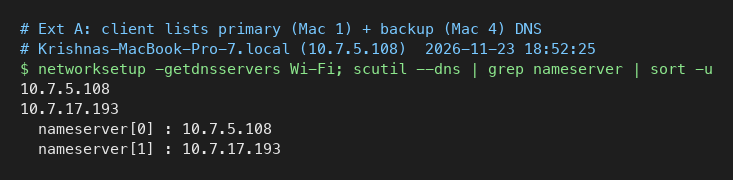
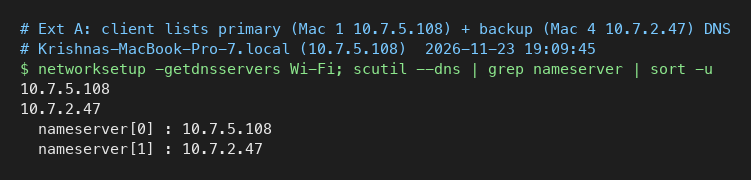
fix: swap Mac 3/Mac 4 IPs; Ext C and backup DNS evidence
Mac 3 = 10.7.17.193 (Backend A), Mac 4 = 10.7.2.47 (Backend B + backup DNS).
Retake resolver evidence with the correct backup.

diff --git a/Evidence/phase2/mac1/README.md b/Evidence/phase2/mac1/README.md
@@ -10,7 +10,7 @@ Each item has a `.png` screenshot and a `.txt` with the raw output (host, IP, ti
 | 04-dnsmasq-running | Task B | dnsmasq process running, answering |
 | 05-dig-app | Task B | `dig app.team1.test` → 10.7.22.206 (authoritative, from 10.7.5.108) |
 | 06-dig-api | Task B | `api.team1.test` → 10.7.22.206 |
-| 07-resolvers | Ext A | client lists primary 10.7.5.108 + backup 10.7.17.193 |
+| 07-resolvers | Ext A | client lists primary 10.7.5.108 + backup 10.7.2.47 |
 | 08-ttl | Ext B | record TTL 30 s (Phase 1 was 0) |
 | 09-forwarding | Task B | non-project names forwarded upstream |
 | 10-https-tls | Task E | HTTPS by name, TLS 1.3, HTTP/2 (ALPN h2), cert verified by team mkcert CA, no `-k` |
@@ -19,9 +19,13 @@ Each item has a `.png` screenshot and a `.txt` with the raw output (host, IP, ti
 | 13-conditional-304 | Task F | `If-None-Match` → 304 from issuing backend, 200 from the other |
 | 14-api-host | Task B/D | api.team1.test served by edge |
 | 15-wrong-dns | Failure demo / Ext A | wrong DNS (8.8.8.8) → no answer, but IP ping to edge works |
+| 16-extC-mac4-isolated | Ext C | direct curl to Backend B :3002 refused (Mac 4 pf ON) |
+| 17-extC-mac3-not-yet-isolated | Ext C | Backend A :3001 still reachable at that moment (Mac 3 pf not on) |
+| 18-extC-edge-still-works | Ext C | A/B still served via edge while isolated |
+| 19-backup-dns | Ext A | backup DNS 10.7.2.47 answers app.team1.test → 10.7.22.206 |
 
-Team IPs: Mac 2 edge 10.7.22.206 · Mac 3 Backend A 10.7.2.47 · Mac 4 Backend B + backup DNS 10.7.17.193.
+Team IPs: Mac 2 edge 10.7.22.206 · Mac 3 Backend A 10.7.17.193 · Mac 4 Backend B + backup DNS 10.7.2.47.
 
-## Still pending (needs other Macs)
-- Mac 4 backup dnsmasq not answering → Ext A failover (stop primary, still resolves).
-- `.pcap` (Task G) + Ext B/E: run `./scripts/mac1.sh phase1 / extB / extE` with the team (needs sudo).
+## Still pending
+- Mac 3 pf rules ON → retake Ext C for Backend A.
+- `.pcap` (Task G), Ext A failover, Ext B, Ext E: run `./scripts/mac1.sh phase1 / extA / extB / extE` with the team.
